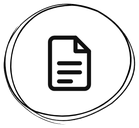
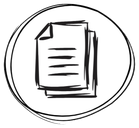
Ficha: Origem em tópicos com caixa ao lado, Bônus de Assimilação dentro de Instintos, ícone de Documentos do projeto
Claude-Session: https://claude.ai/code/session_01Ac6kjSfeh85yuidM7EbJvf

diff --git a/public/index.html b/public/index.html
@@ -436,6 +436,45 @@
   }
   @media (prefers-reduced-motion: reduce){ .fnav, .fnav-casa{ transition:none !important; } .fnav-casa.foco, .fnav-casa.viz{ transform:none !important; } }
   :root[data-anim="reduzidas"] .fnav-casa.foco, :root[data-anim="reduzidas"] .fnav-casa.viz{ transform:none !important; }
+
+  /* ---------- Origem em tópicos (texto abre numa caixa ao lado) ---------- */
+  .orig-lista{ display:flex; flex-direction:column; gap:6px; }
+  .orig-top{ display:grid; grid-template-columns:auto 1fr auto; align-items:baseline; gap:10px; width:100%;
+    padding:8px 10px; border:1px solid var(--border); border-radius:8px; background:var(--surface-2);
+    color:var(--ink); font:inherit; text-align:left; cursor:pointer; transition:border-color .15s, background .15s; }
+  .orig-top:hover, .orig-top.aberto{ border-color:var(--camp-color, var(--accent)); background:var(--surface); }
+  .orig-tit{ font-weight:700; white-space:nowrap; }
+  .orig-prev{ min-width:0; overflow:hidden; text-overflow:ellipsis; white-space:nowrap; color:var(--ink-muted); font-size:.92em; }
+  .orig-seta{ color:var(--ink-muted); font-size:1.2em; line-height:1; }
+  .orig-top.aberto .orig-seta{ color:var(--camp-color, var(--accent)); }
+  .orig-pop{ position:absolute; z-index:60; max-height:min(60vh, 520px); display:flex; flex-direction:column;
+    background:var(--surface); color:var(--ink); border:1px solid var(--border-strong); border-left:5px solid var(--camp-color, var(--accent));
+    border-radius:10px; box-shadow:0 12px 32px rgba(0,0,0,.3); animation:origPop .16s ease-out; }
+  .orig-pop.sobre{ box-shadow:0 14px 40px rgba(0,0,0,.4); animation-name:origPopDesce; }
+  @keyframes origPopDesce{ from{ opacity:0; transform:translateY(-6px); } to{ opacity:1; transform:none; } }
+  .orig-pop.centro{ position:fixed; left:16px !important; right:16px; top:50% !important; transform:translateY(-50%); width:auto !important; max-height:70vh; }
+  .orig-pop-cab{ display:flex; align-items:center; justify-content:space-between; gap:10px; padding:10px 12px 8px 14px; border-bottom:1px solid var(--border); }
+  .orig-pop-x{ border:1px solid var(--border); background:var(--surface-2); color:var(--ink); border-radius:6px; width:28px; height:28px; font-size:18px; line-height:1; cursor:pointer; }
+  .orig-pop-corpo{ padding:10px 14px 14px; overflow:auto; white-space:pre-wrap; line-height:1.5; }
+  .orig-pop-corpo p{ margin:0; }
+  .orig-pop-corpo ol{ margin:0; padding-left:20px; }
+  .orig-pop-corpo li + li{ margin-top:8px; }
+  @keyframes origPop{ from{ opacity:0; transform:translateX(8px); } to{ opacity:1; transform:none; } }
+  .orig-pop.centro{ animation:none; }
+  :root[data-anim="reduzidas"] .orig-pop{ animation:none; }
+  @media (prefers-reduced-motion: reduce){ .orig-pop{ animation:none; } }
+  /* ---------- Bônus de Assimilação dentro de Instintos ---------- */
+  .bonus-assim{ margin-top:12px; border:1px dashed var(--border-strong); border-radius:8px; padding:6px 10px; }
+  .bonus-cab{ display:flex; justify-content:space-between; align-items:center; gap:8px; width:100%; padding:4px 0; border:0; background:none; color:var(--ink); font:inherit; font-weight:700; cursor:pointer; text-align:left; }
+  .bonus-sub{ margin:10px 0 4px; font-size:12px; font-weight:700; text-transform:uppercase; letter-spacing:.05em; color:var(--ink-muted); }
+  .bonus-grade{ display:grid; grid-template-columns:repeat(2, minmax(0,1fr)); gap:4px 14px; }
+  .bonus-lin{ display:flex; align-items:center; justify-content:space-between; gap:6px; font-size:14px; }
+  .bonus-lin > span:first-child{ min-width:0; overflow:hidden; text-overflow:ellipsis; white-space:nowrap; }
+  .bonus-step{ flex:none; }
+  .bonus-step{ display:inline-flex; align-items:center; gap:3px; }
+  .bonus-step .stepper-btn{ width:26px; height:26px; padding:0; }
+  .bonus-step input{ width:36px; height:26px; padding:0 2px; text-align:center; }
+  @media (max-width:420px){ .bonus-grade{ grid-template-columns:1fr; } }
   [data-secid]{ scroll-margin-top:var(--fnav-h, 70px); }
   .fnav-alvo{ animation:fnavAlvo 1.1s ease-out; }
   @keyframes fnavAlvo{ 0%{ box-shadow:0 0 0 0 var(--camp-color, var(--accent)), var(--shadow);} 30%{ box-shadow:0 0 0 4px var(--camp-color, var(--accent)), var(--shadow);} 100%{ box-shadow:0 0 0 0 var(--camp-color, var(--accent)), var(--shadow);} }
@@ -3469,6 +3508,120 @@
     atualizarAtual();
   }
 
+  // ---------- ORIGEM EM TÓPICOS + CAIXA AO LADO ----------
+  function origemTopicos(c){
+    var o = c.origem || {}, pi = c.propIndividuais || [], pr = c.propRelacionais || [];
+    return [
+      { k:"geracao", titulo:"Geração", itens:[o.geracao] },
+      { k:"evento", titulo:"Evento Marcante", itens:[o.evento] },
+      { k:"ocupacao", titulo:"Ocupação", itens:[o.ocupacao] },
+      { k:"propositos", titulo:"Propósitos individuais", itens:[pi[0], pi[1]], lista:true },
+      { k:"conexoes", titulo:"Conexões", itens:[pr[0], pr[1]], lista:true }
+    ];
+  }
+  function fecharOrigemPop(){
+    state.origemPop = null;
+    var el = document.getElementById("orig-pop");
+    if(el) el.remove();
+    if(typeof app !== "undefined" && app) app.querySelectorAll(".orig-top.aberto").forEach(function(b){ b.classList.remove("aberto"); });
+  }
+  function abrirOrigemPop(c, k){
+    var t = origemTopicos(c).filter(function(x){ return x.k===k; })[0];
+    var btn = app.querySelector('[data-origtop="'+k+'"]');
+    var card = app.querySelector('[data-secid="origem"]');
+    if(!t || !btn || !card){ fecharOrigemPop(); return; }
+    state.origemPop = k;
+    app.querySelectorAll(".orig-top").forEach(function(b){ b.classList.toggle("aberto", b===btn); });
+    var el = document.getElementById("orig-pop");
+    if(!el){ el = document.createElement("div"); el.id = "orig-pop"; el.className = "orig-pop"; el.setAttribute("role","dialog"); document.body.appendChild(el); }
+    var corpo;
+    if(t.lista){
+      var itens = t.itens.filter(function(x){ return x && String(x).trim(); });
+      corpo = itens.length ? '<ol>'+itens.map(function(x){ return '<li>'+esc(x)+'</li>'; }).join('')+'</ol>' : '<p class="hint">Em branco.</p>';
+    } else {
+      corpo = (t.itens[0] && String(t.itens[0]).trim()) ? '<p>'+esc(t.itens[0])+'</p>' : '<p class="hint">Em branco.</p>';
+    }
+    el.setAttribute("aria-label", t.titulo);
+    el.innerHTML = '<div class="orig-pop-cab"><b>'+esc(t.titulo)+'</b><button type="button" class="orig-pop-x" aria-label="Fechar">×</button></div><div class="orig-pop-corpo">'+corpo+'</div>';
+    el.querySelector(".orig-pop-x").addEventListener("click", fecharOrigemPop);
+    posicionarOrigemPop();
+  }
+  // Fica à esquerda do cartão quando cabe; se não couber (tela estreita), abre por
+  // cima do próprio cartão, alinhada à esquerda dele. No celular, centralizada.
+  function posicionarOrigemPop(){
+    var el = document.getElementById("orig-pop");
+    var btn = state.origemPop && app.querySelector('[data-origtop="'+state.origemPop+'"]');
+    var card = app.querySelector('[data-secid="origem"]');
+    if(!el || !btn || !card) return;
+    var vw = document.documentElement.clientWidth;
+    if(vw <= 640){ el.classList.add("centro"); el.style.left = ""; el.style.top = ""; el.style.width = ""; return; }
+    el.classList.remove("centro");
+    var rc = card.getBoundingClientRect(), rb = btn.getBoundingClientRect();
+    var espaco = rc.left - 26; // espaço livre à esquerda do cartão (com margens)
+    var larg, esquerda, sobre = espaco < 260;
+    if(!sobre){ larg = Math.min(380, espaco); esquerda = rc.left - larg - 14; }
+    else { larg = Math.min(460, rc.width - 16); esquerda = rc.left + 8; }
+    el.classList.toggle("sobre", sobre);
+    el.style.width = larg + "px";
+    el.style.left = (esquerda + window.scrollX) + "px";
+    // Sem espaço à esquerda: abre logo abaixo do tópico clicado, dentro da coluna do cartão.
+    var topo = sobre ? rb.bottom + window.scrollY + 6 : rb.top + window.scrollY - 8;
+    var alt = el.offsetHeight, maxTopo = window.scrollY + window.innerHeight - alt - 12;
+    if(topo > maxTopo) topo = Math.max(window.scrollY + 12, maxTopo);
+    el.style.top = topo + "px";
+  }
+  function bindOrigemTopicos(c){
+    app.querySelectorAll("[data-origtop]").forEach(function(b){
+      b.addEventListener("click", function(ev){
+        ev.stopPropagation();
+        var k = b.getAttribute("data-origtop");
+        if(state.origemPop === k) fecharOrigemPop(); else abrirOrigemPop(c, k);
+      });
+    });
+    if(state.origemPop) abrirOrigemPop(c, state.origemPop); // re-render: reabre com o texto atualizado
+  }
+  document.addEventListener("click", function(ev){
+    if(!state.origemPop) return;
+    var el = document.getElementById("orig-pop");
+    if(el && el.contains(ev.target)) return;
+    if(ev.target.closest && ev.target.closest("[data-origtop]")) return;
+    fecharOrigemPop();
+  });
+  document.addEventListener("keydown", function(ev){ if(ev.key === "Escape" && state.origemPop) fecharOrigemPop(); });
+  window.addEventListener("resize", function(){ if(state.origemPop) posicionarOrigemPop(); });
+
+  // ---------- BÔNUS DE ASSIMILAÇÃO (dentro do cartão de Instintos) ----------
+  // Quando uma Assimilação aumenta um Instinto/Conhecimento/Prática além do normal.
+  // Soma direto na base em todo lugar (valorInstinto/valorCP). Usa os mesmos
+  // data-* dos steppers (instbonus/cpbonus), então bindSheetCampos continua valendo.
+  function bonusAssimHtml(c){
+    var ib = c.instintosAssimBonus || {}, cb = c.conhPratAssimBonus || {};
+    var total = 0;
+    INSTINTOS.forEach(function(i){ total += ib[i[0]]||0; });
+    CONH_PRAT.forEach(function(p){ total += cb[p[0]]||0; });
+    var aberto = !!state.collapsed["assimbonus-aberto"];
+    function linha(kind, id, rot, v){
+      return '<div class="bonus-lin"><span title="'+rot+'">'+rot+'</span><span class="bonus-step">' +
+        '<button type="button" class="stepper-btn" data-stepbtn="'+kind+'" data-id="'+id+'" data-dir="-1" aria-label="Menos '+rot+'">&minus;</button>' +
+        '<input type="number" min="0" max="99" data-'+kind+'="'+id+'" value="'+v+'" aria-label="Bônus em '+rot+'">' +
+        '<button type="button" class="stepper-btn" data-stepbtn="'+kind+'" data-id="'+id+'" data-dir="1" aria-label="Mais '+rot+'">+</button>' +
+      '</span></div>';
+    }
+    var html = '<div class="bonus-assim'+(aberto?' aberto':'')+'">' +
+      '<button type="button" class="bonus-cab" data-bonustoggle aria-expanded="'+aberto+'">' +
+        '<span>Bônus de Assimilação</span><span class="hint" style="margin:0">'+(total ? '+'+total+' no total' : 'nenhum')+' · '+(aberto?'▾':'▸')+'</span>' +
+      '</button>';
+    if(aberto){
+      html += '<p class="hint" style="margin:6px 0 8px">Quando uma Assimilação aumenta um Instinto, Conhecimento ou Prática além do normal. Soma em cima da base em todo lugar (tabelas, testes, Painel).</p>';
+      html += '<p class="bonus-sub">Instintos</p><div class="bonus-grade">';
+      INSTINTOS.forEach(function(i){ html += linha("instbonus", i[0], i[1], ib[i[0]]||0); });
+      html += '</div><p class="bonus-sub">Conhecimentos &amp; Práticas</p><div class="bonus-grade">';
+      CONH_PRAT.forEach(function(p){ html += linha("cpbonus", p[0], p[1], cb[p[0]]||0); });
+      html += '</div>';
+    }
+    return html + '</div>';
+  }
+
   function sectionCard(id, title, bodyHtml){
     var collapsed = !!state.collapsed[id];
     return '<div class="card" data-secid="'+id+'">' +
@@ -3481,6 +3634,7 @@
   }
 
   function goto(view, extra){
+    fecharOrigemPop();
     // Sair da ficha (ou de qualquer tela) confirma sozinha uma pendência de
     // Saúde/Cabo de Guerra/Equipamento-Inventário ainda não confirmada (ver
     // marcarPendenteOuSalvar) - assim ela nunca fica esquecida pra trás.
@@ -4532,12 +4686,17 @@
     html += '<div class="grid cols-2">';
 
     // Origem / Propositos
+    // Cada tópico é só uma linha (título + começo do texto); o texto inteiro abre
+    // numa caixa ao lado (ver abrirOrigemPop), pra o cartão não crescer.
     html += sectionCard("origem", "Origem, Propósitos &amp; Conexões",
-      '<p><b>Geração:</b> '+esc(c.origem.geracao)+'</p>' +
-      '<p><b>Evento Marcante:</b> '+esc(c.origem.evento)+'</p>' +
-      '<p><b>Ocupação:</b> '+esc(c.origem.ocupacao)+'</p>' +
-      '<p><b>Propósitos individuais:</b> '+esc(c.propIndividuais[0])+'; '+esc(c.propIndividuais[1])+'</p>' +
-      '<p><b>Conexões:</b> '+esc(c.propRelacionais[0])+'; '+esc(c.propRelacionais[1])+'</p>');
+      '<div class="orig-lista">' + origemTopicos(c).map(function(t){
+        var prev = t.itens.filter(Boolean).join(" · ");
+        return '<button type="button" class="orig-top'+(state.origemPop===t.k?' aberto':'')+'" data-origtop="'+t.k+'" aria-haspopup="dialog">' +
+          '<span class="orig-tit">'+esc(t.titulo)+'</span>' +
+          '<span class="orig-prev">'+(prev ? esc(prev) : '<i>em branco</i>')+'</span>' +
+          '<span class="orig-seta" aria-hidden="true">›</span>' +
+        '</button>';
+      }).join('') + '</div>');
 
     // Instintos (valor mostrado já inclui o Bônus de Assimilação, ver valorInstinto; a
     // divisão "base+bônus" só aparece como dica quando existe algum bônus, pra não poluir
@@ -4549,6 +4708,7 @@
       instintosBody += '<tr><td>'+i[1]+'</td><td class="num">'+(baseInstDisp+bonusInstDisp)+(bonusInstDisp?' <span class="hint">('+baseInstDisp+'+'+bonusInstDisp+')</span>':'')+'</td></tr>';
     });
     instintosBody += '</tbody></table>';
+    instintosBody += bonusAssimHtml(c);
     html += sectionCard("instintos", "Instintos", instintosBody);
 
     html += '</div>'; // end grid-2
@@ -4564,21 +4724,6 @@
     cpBody += '</tbody></table></div>';
     html += sectionCard("conhprat", "Conhecimentos &amp; Práticas", cpBody);
 
-    // Bônus de Assimilação: pra campanhas de nível mais alto, onde Assimilações aumentam
-    // Instintos/Conhecimentos/Práticas além do teto normal de criação (3). Fica separado da
-    // base; valorInstinto/valorCP somam isso automaticamente em todo lugar que importa
-    // (tabelas acima, o testador, o Painel do Assimilador). Sem limite fixo de valor.
-    var assimBonusBody = '<p class="hint">Quando uma Assimilação aumenta um Instinto, Conhecimento ou Prática além do normal, registre aqui: o valor soma direto em cima da base em todo lugar (tabelas acima, testes, Painel do Assimilador), sem contar no orçamento de pontos da criação.</p>';
-    assimBonusBody += '<h3 style="margin-bottom:8px">Instintos</h3><div class="grid cols-3">';
-    INSTINTOS.forEach(function(i){
-      assimBonusBody += stepperField("instbonus", i[1], "", i[0], (c.instintosAssimBonus&&c.instintosAssimBonus[i[0]])||0, 0, 99, false);
-    });
-    assimBonusBody += '</div><h3 style="margin:14px 0 8px">Conhecimentos &amp; Práticas</h3><div class="grid cols-3">';
-    CONH_PRAT.forEach(function(p){
-      assimBonusBody += stepperField("cpbonus", p[1], "", p[0], (c.conhPratAssimBonus&&c.conhPratAssimBonus[p[0]])||0, 0, 99, false);
-    });
-    assimBonusBody += '</div>';
-    html += sectionCard("assimbonus", "Bônus de Assimilação", assimBonusBody);
 
     // Teste (rolador integrado, puxa Instinto + Prática/Conhecimento direto da ficha)
     if(!state.sheetTest || state.sheetTest.charId !== c.id){
@@ -5664,6 +5809,15 @@
     tentar("Teste", function(){ bindSheetTest(c); });
     tentar("ficha", function(){ bindSheetCampos(c, maxNivel); });
     tentar("Navegação", bindFichaNav);
+    tentar("Origem", function(){ bindOrigemTopicos(c); });
+    tentar("Bônus de Assimilação", function(){
+      var bt = app.querySelector("[data-bonustoggle]");
+      if(bt) bt.addEventListener("click", function(){
+        state.collapsed["assimbonus-aberto"] = !state.collapsed["assimbonus-aberto"];
+        saveLS("pangea:collapsed", state.collapsed);
+        render();
+      });
+    });
   }
   function bindSheetCampos(c, maxNivel){
     // Nome do jogador e Notas: só atualizam o objeto local a cada tecla (sem
